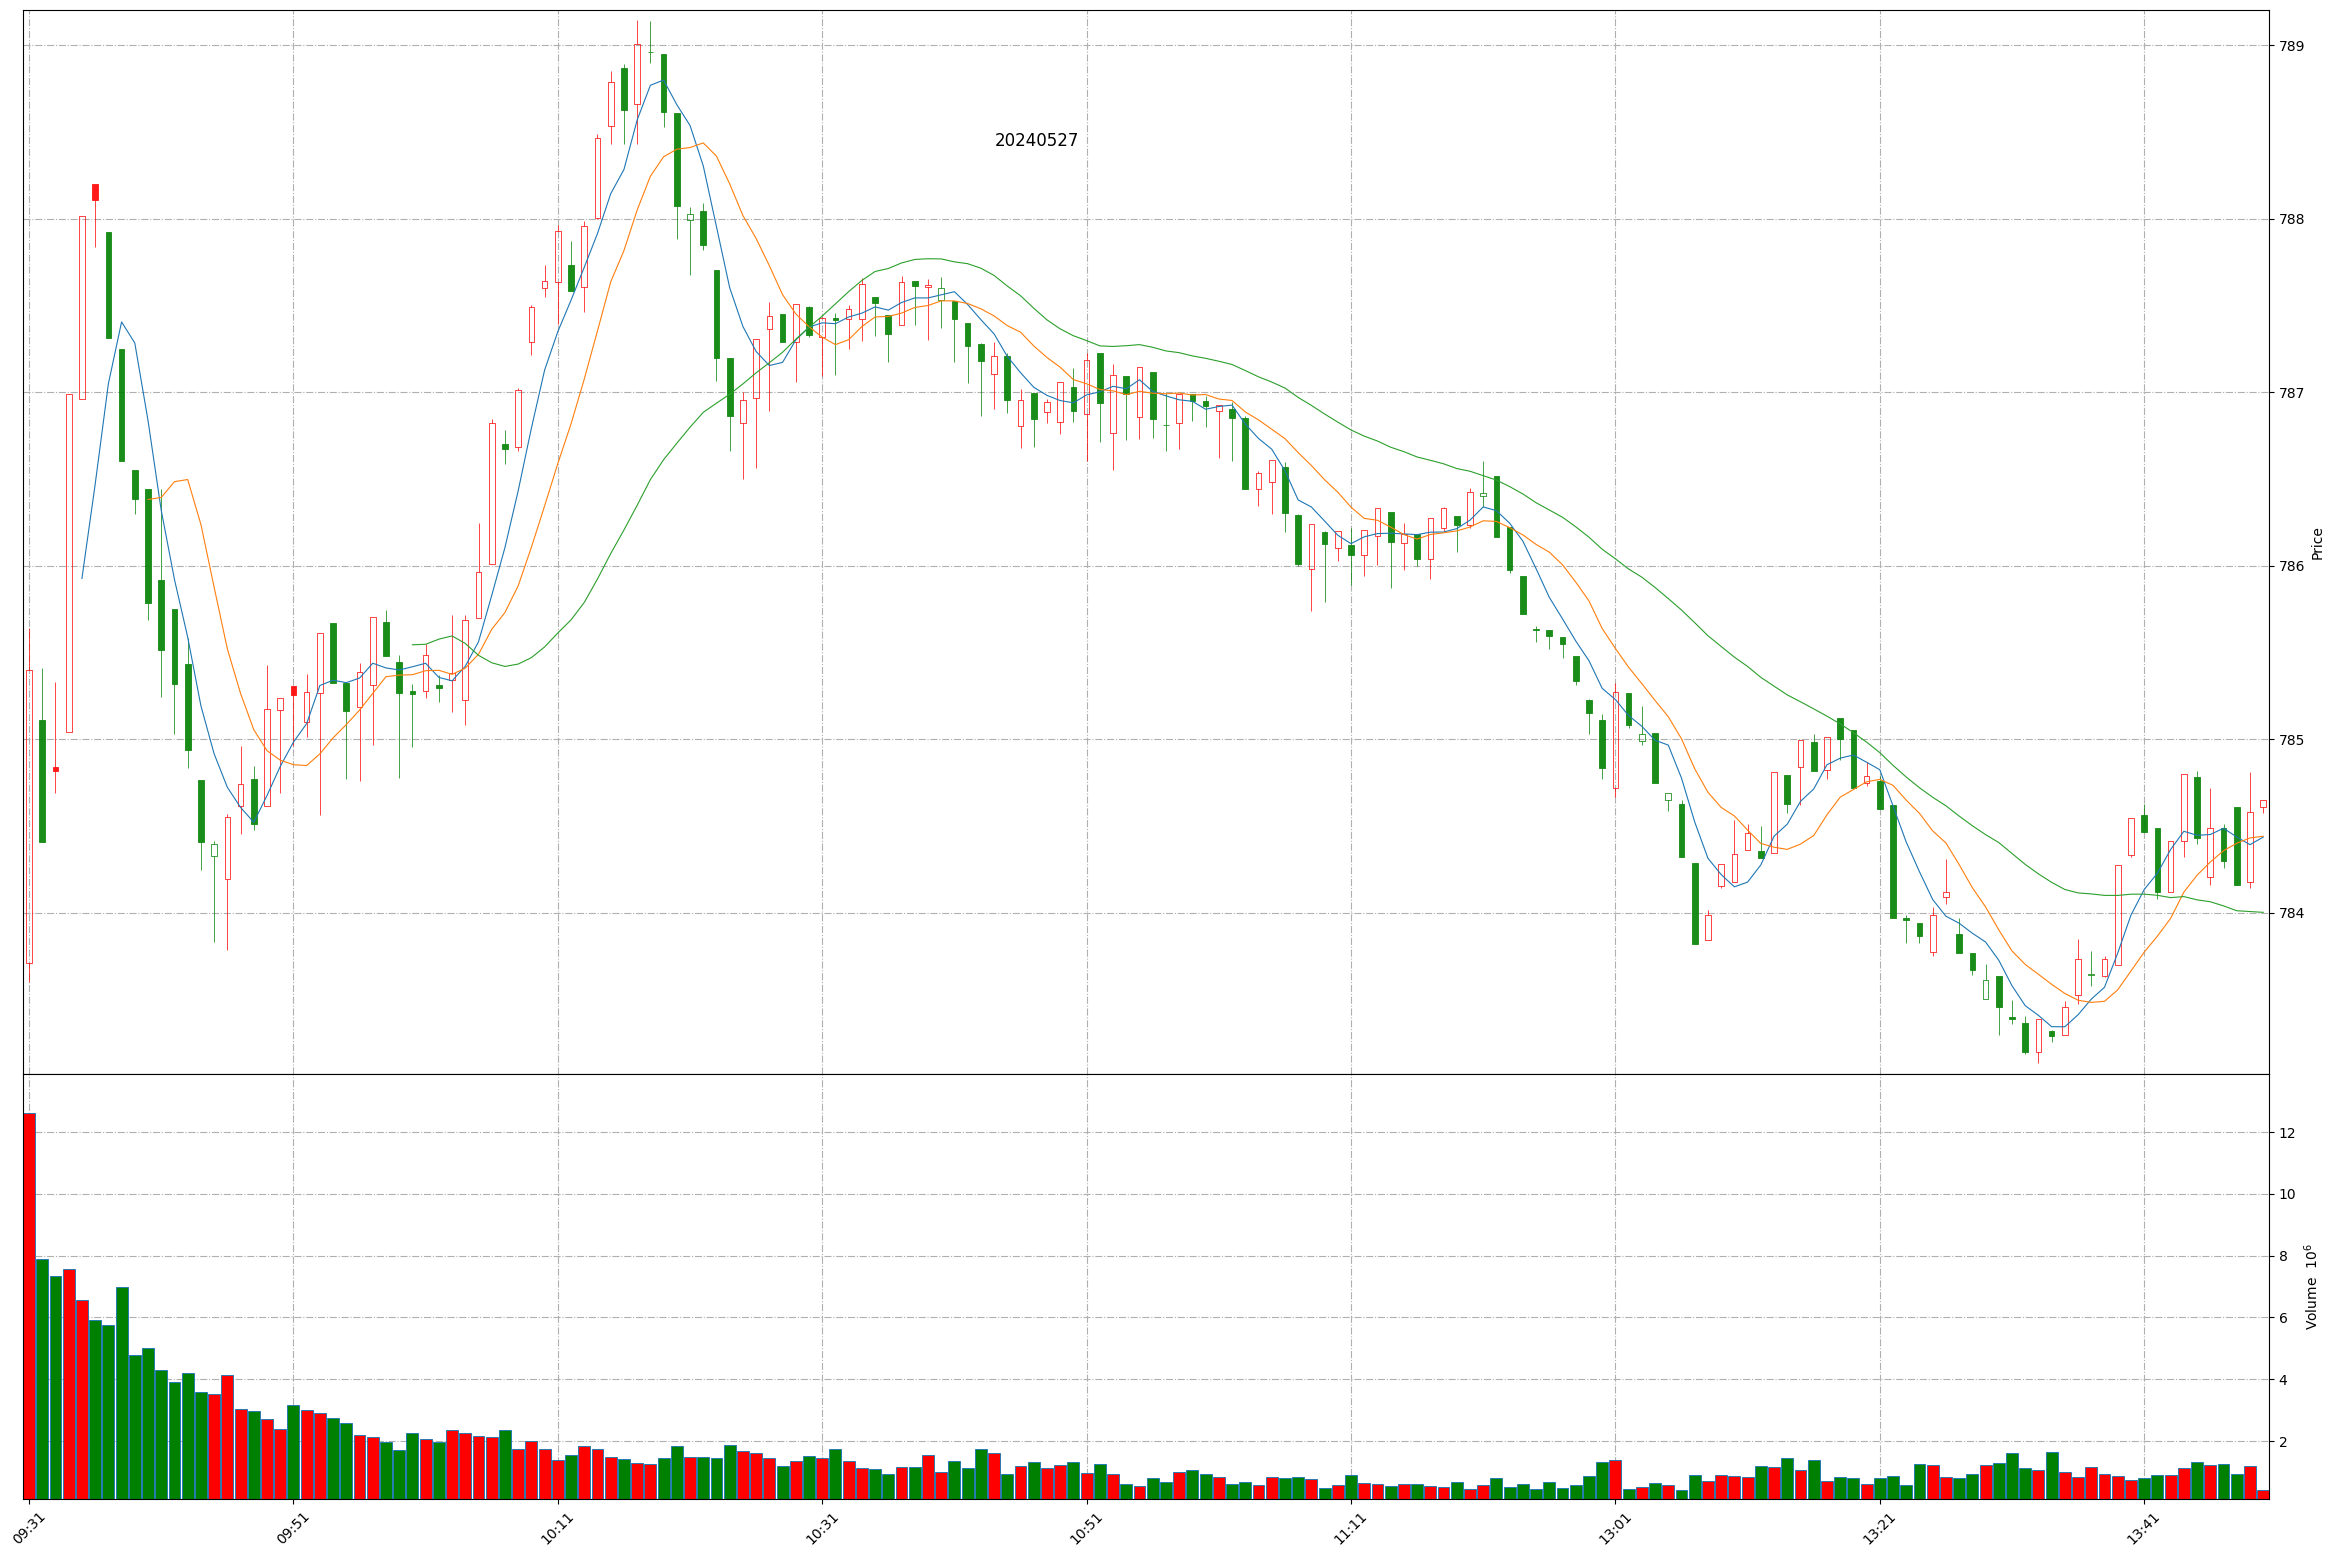
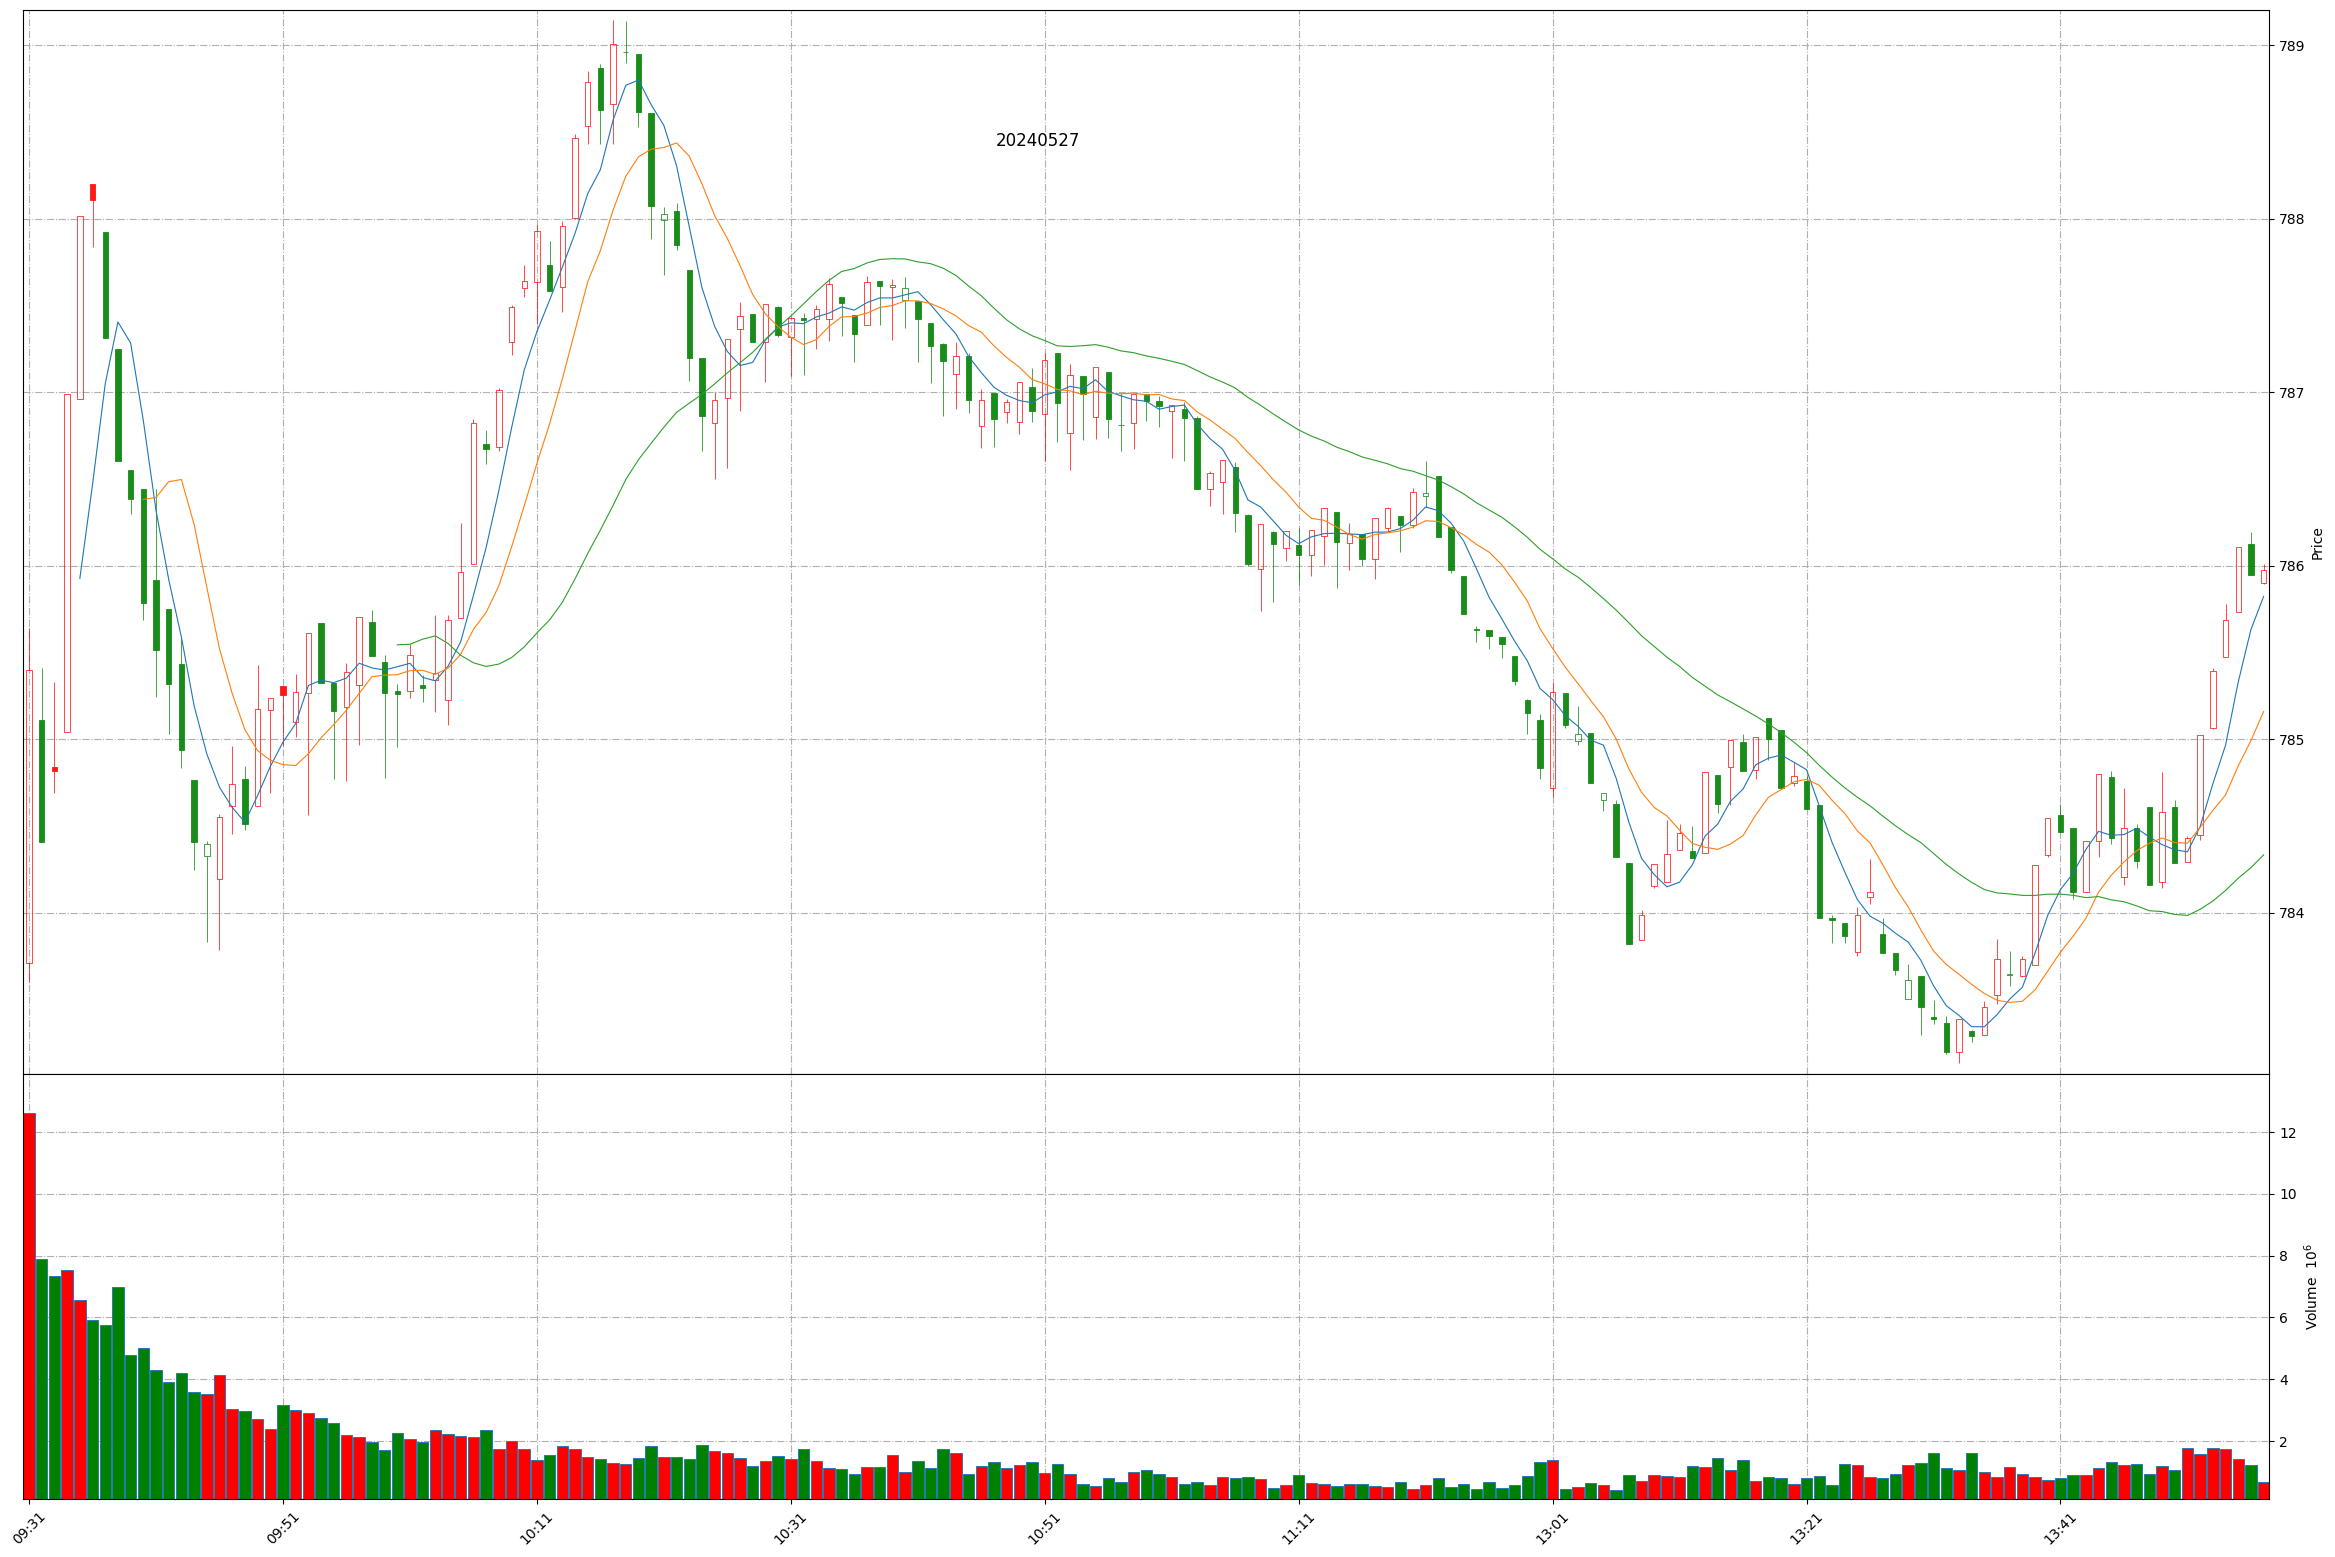
Github action update at 2024-05-27 13:56:54.

diff --git a/README.md b/README.md
@@ -1,11 +1,11 @@
 
 # Daily-A-share-market-quotes 每日 A 股指数（5min 更新）- 20240527
 
-### 上证指数 20240527 13:49
+### 上证指数 20240527 13:56
 ![](./fig/2024/5/20240527-sh000001.png)
 
-### 深证成指 20240527 13:49
+### 深证成指 20240527 13:56
 ![](./fig/2024/5/20240527-sz399001.png)
 
-### 北证50 20240527 13:49
+### 北证50 20240527 13:56
 ![](./fig/2024/5/20240527-bj899050.png)
